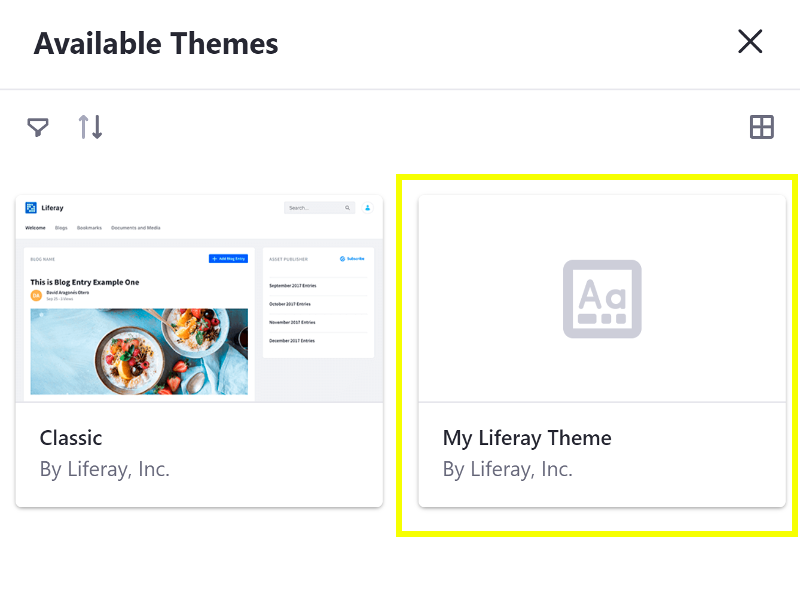
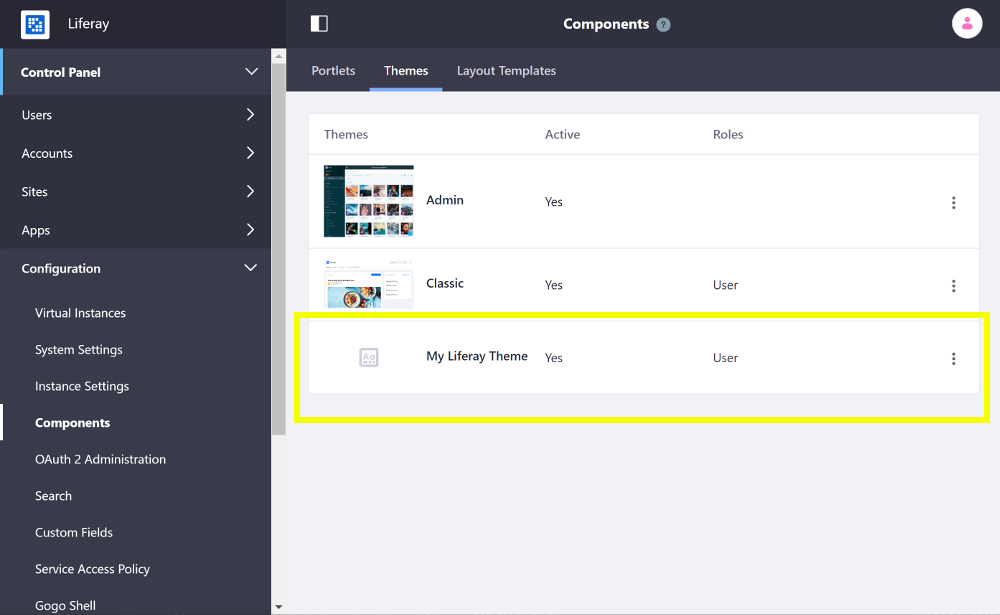
LRDOCS-7560 Change steps to verify Theme through Components

diff --git a/docs/dxp/7.x/en/site-building/dev/01-developing-themes/developing-a-theme.md b/docs/dxp/7.x/en/site-building/dev/01-developing-themes/developing-a-theme.md
@@ -52,7 +52,7 @@ First you must deploy an example Theme. Follow these steps:
     INFO [fileinstall-/opt/liferay/osgi/war][BundleStartStopLogger:39] STARTED my-liferay-theme_1.0.0 [1114]
     ```
 
-1.  Verify that the Theme is available. Open your browser to `https://localhost:8080` and [apply the Theme](TODO:applying-themes)
+1. Verify that the Theme is available. Open your browser to `https://localhost:8080`, open the Product Menu and go to *Control Panel* &rarr; *Configuration* &rarr; *Components*, and select the *Themes* tab.
 
     ![The custom Theme is listed in the Theme selector.](./developing-a-theme/images/01.png)
 
